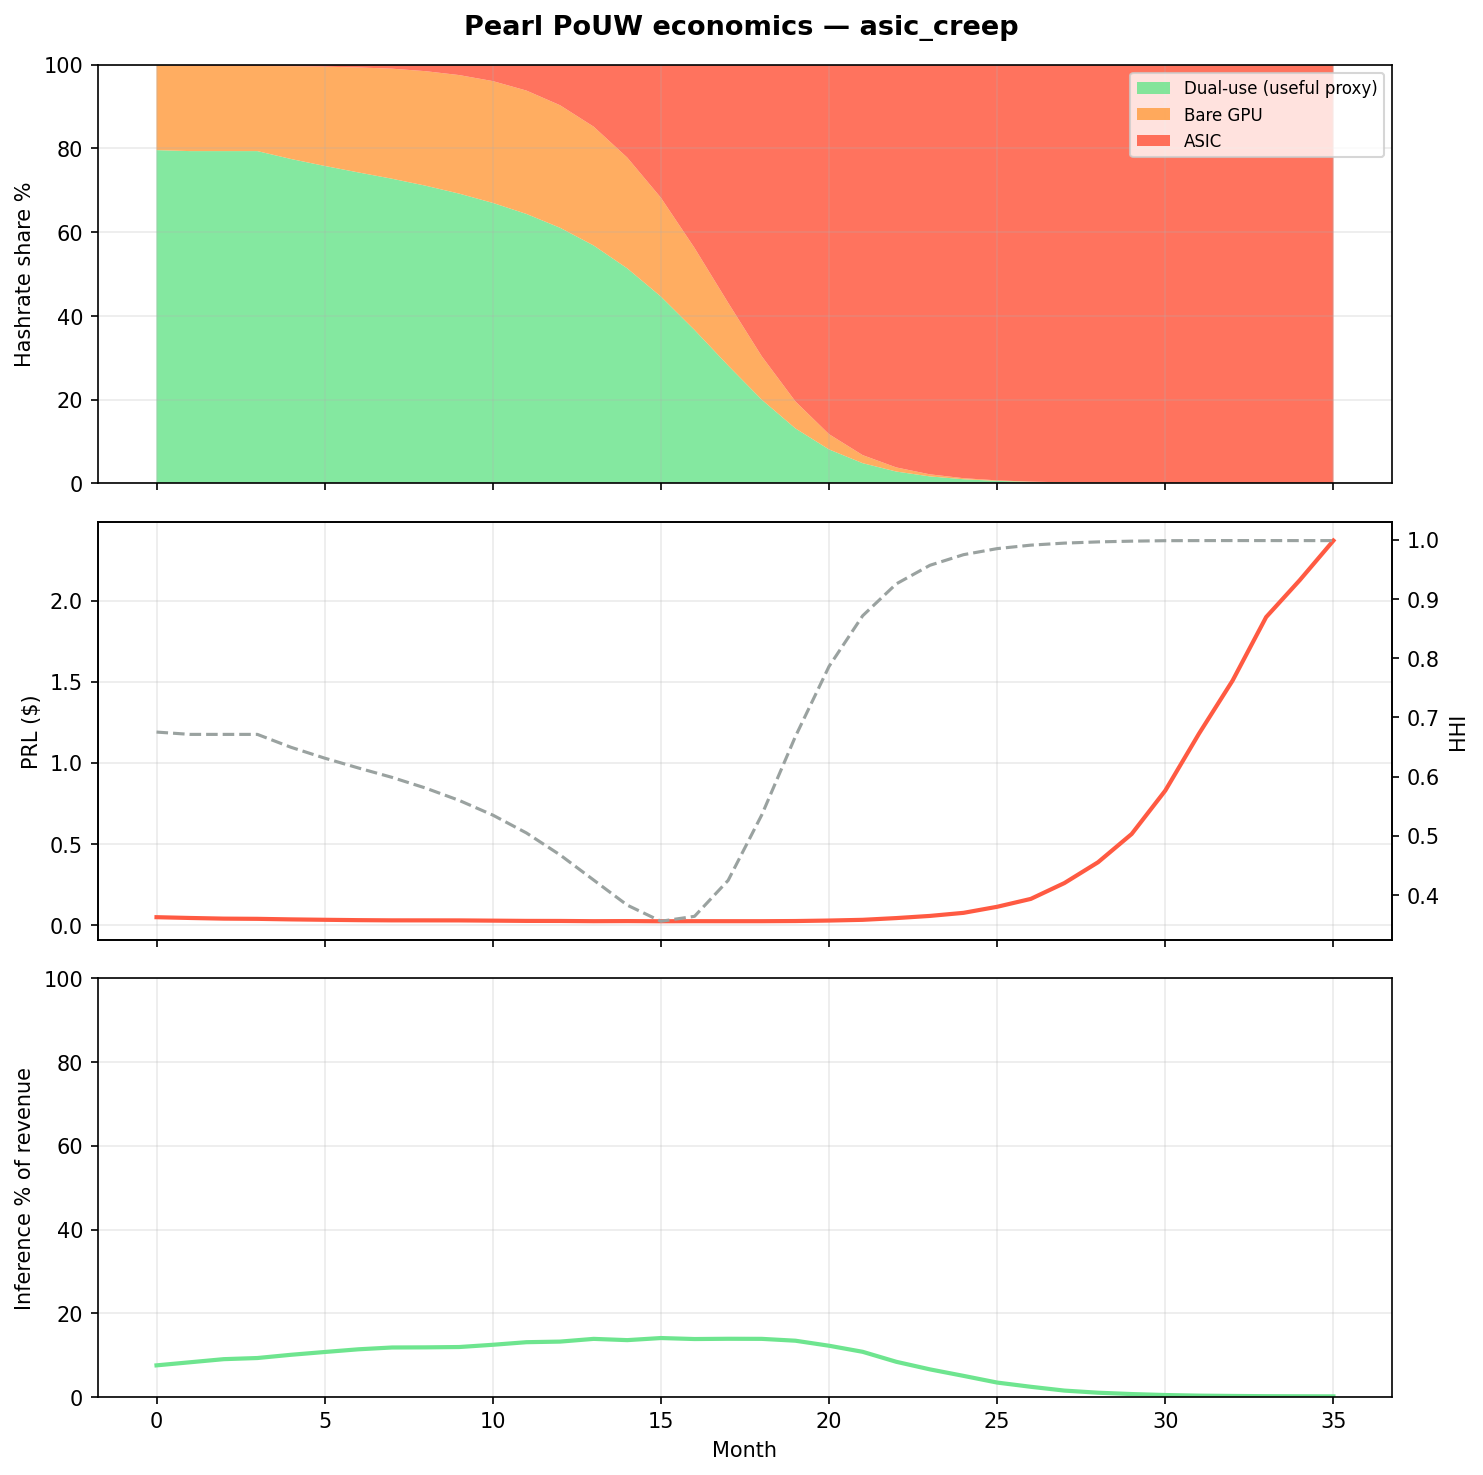
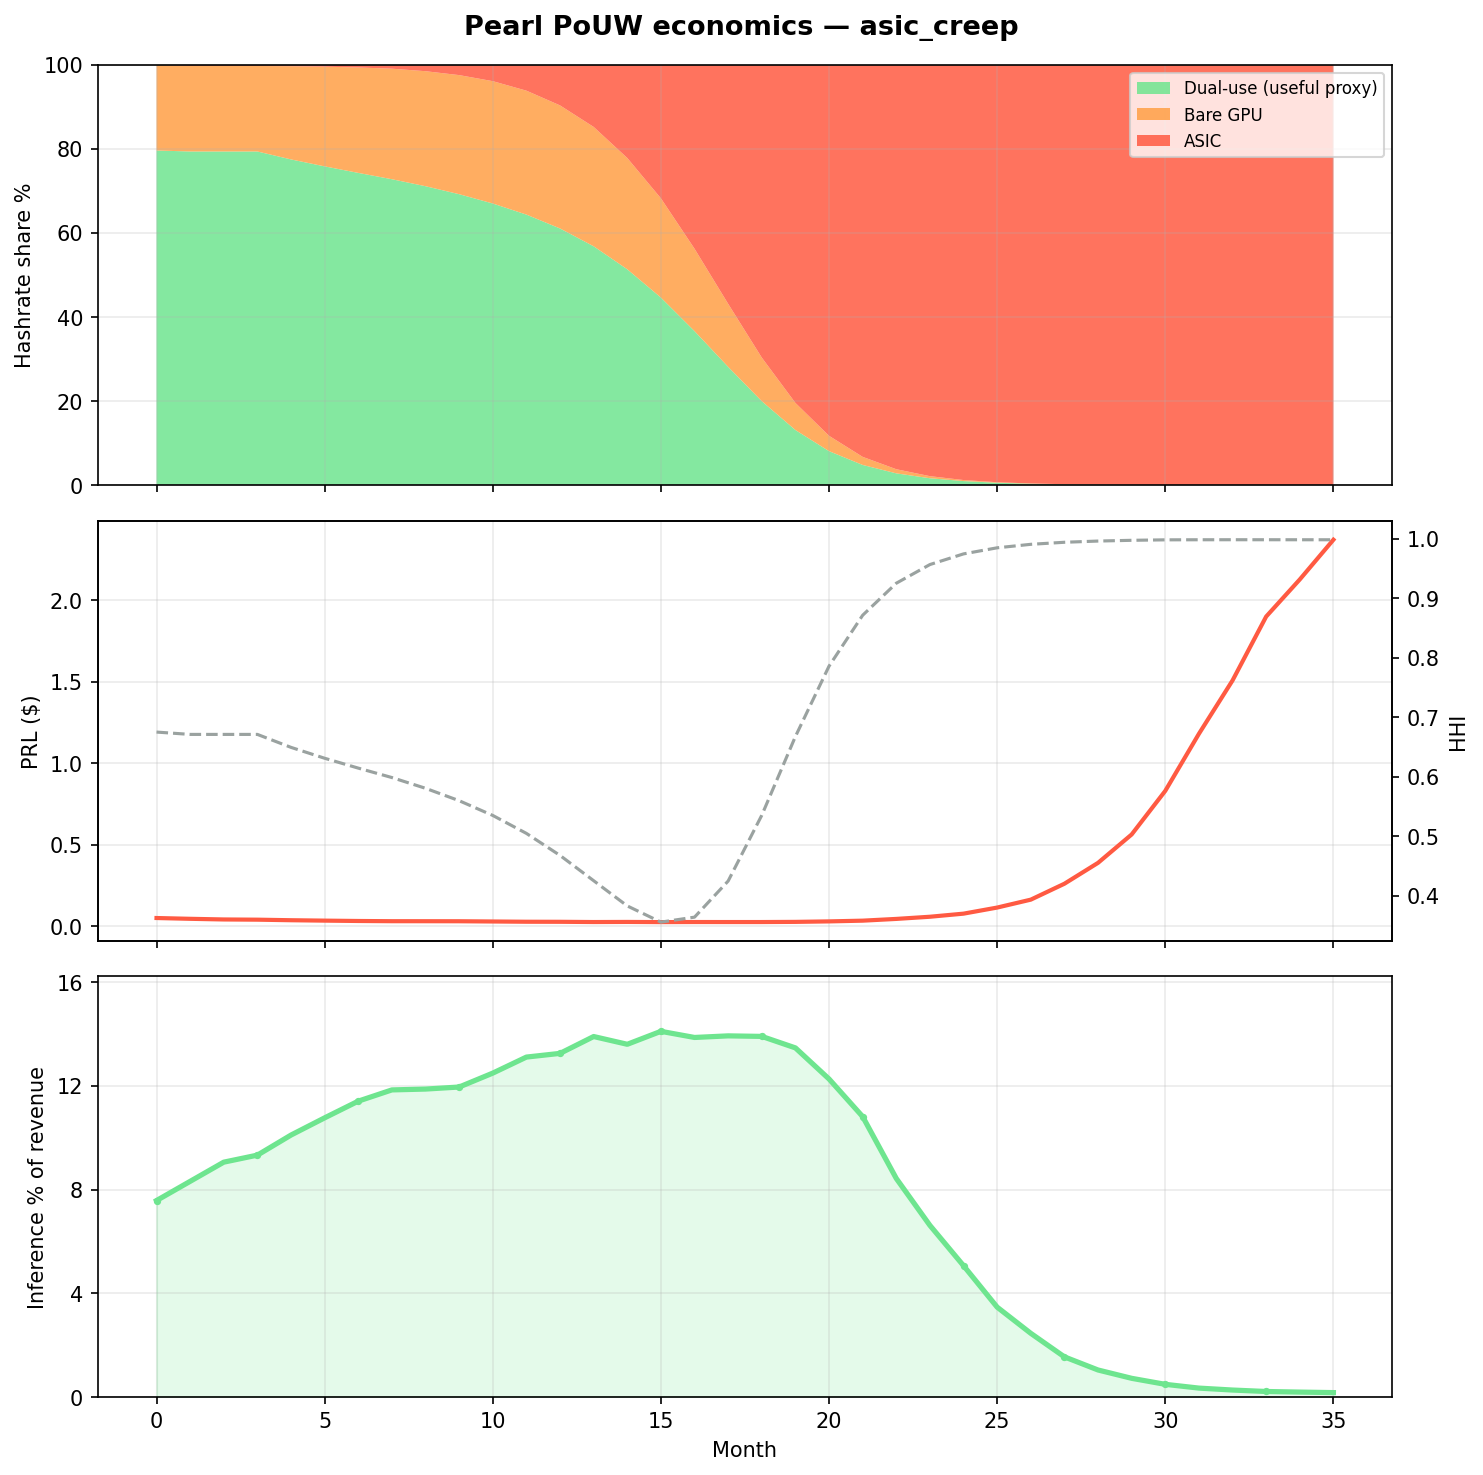
Fix inference revenue chart y-axis scaling in Pearl sim PNGs.
Auto-scale bottom panel to data range, add fill/markers, cache-bust chart URLs on the report.

diff --git a/_posts/2026-05-23-pearl-pouw-useful-work-asic-analysis.md b/_posts/2026-05-23-pearl-pouw-useful-work-asic-analysis.md
@@ -547,32 +547,32 @@ flowchart TB
   <div class="pearl-sim-grid">
     <div class="pearl-sim-card">
       <div class="pearl-sim-card-head"><h4>baseline</h4><span class="tag">moderate PRL</span></div>
-      <div class="pearl-sim-chart"><img src="/assets/images/pearl-economics/baseline.png" alt="Baseline scenario: hashrate shares, PRL price, inference revenue fraction over 36 months" loading="lazy" /></div>
+      <div class="pearl-sim-chart"><img src="/assets/images/pearl-economics/baseline.png?v=20260524d" alt="Baseline scenario: hashrate shares, PRL price, inference revenue fraction over 36 months" loading="lazy" /></div>
       <p class="pearl-sim-caption">Endogenous PRL mean-reversion cannot stop ASIC crowding once hash/$ advantage compounds.</p>
     </div>
     <div class="pearl-sim-card highlight">
       <div class="pearl-sim-card-head"><h4>inference_boom</h4><span class="tag">best case</span></div>
-      <div class="pearl-sim-chart"><img src="/assets/images/pearl-economics/inference_boom.png" alt="Inference boom scenario: dual-use retains meaningful hashrate when API demand scales" loading="lazy" /></div>
+      <div class="pearl-sim-chart"><img src="/assets/images/pearl-economics/inference_boom.png?v=20260524d" alt="Inference boom scenario: dual-use retains meaningful hashrate when API demand scales" loading="lazy" /></div>
       <p class="pearl-sim-caption"><strong>Only scenario</strong> where dual-use hashrate stays double-digit and inference becomes ~half of network revenue.</p>
     </div>
     <div class="pearl-sim-card">
       <div class="pearl-sim-card-head"><h4>prl_pump</h4><span class="tag">subsidy shock</span></div>
-      <div class="pearl-sim-chart"><img src="/assets/images/pearl-economics/prl_pump.png" alt="PRL pump scenario: token price rise attracts ASIC capital" loading="lazy" /></div>
+      <div class="pearl-sim-chart"><img src="/assets/images/pearl-economics/prl_pump.png?v=20260524d" alt="PRL pump scenario: token price rise attracts ASIC capital" loading="lazy" /></div>
       <p class="pearl-sim-caption">Higher PRL alone attracts capital into best hash/$ — ASICs and bare GPUs, not vLLM farms.</p>
     </div>
     <div class="pearl-sim-card">
       <div class="pearl-sim-card-head"><h4>asic_creep</h4><span class="tag">hardware curve</span></div>
-      <div class="pearl-sim-chart"><img src="/assets/images/pearl-economics/asic_creep.png" alt="ASIC creep scenario: improving ASIC efficiency drives concentration" loading="lazy" /></div>
+      <div class="pearl-sim-chart"><img src="/assets/images/pearl-economics/asic_creep.png?v=20260524d" alt="ASIC creep scenario: improving ASIC efficiency drives concentration" loading="lazy" /></div>
       <p class="pearl-sim-caption">4× ASIC efficiency gain → HHI ≈ 1.0. Matches whitepaper's "compute without useful work" branch.</p>
     </div>
     <div class="pearl-sim-card">
       <div class="pearl-sim-card-head"><h4>together_only</h4><span class="tag">May 2026 shaped</span></div>
-      <div class="pearl-sim-chart"><img src="/assets/images/pearl-economics/together_only.png" alt="Together-only scenario: tiny inference market, dual-use collapses" loading="lazy" /></div>
+      <div class="pearl-sim-chart"><img src="/assets/images/pearl-economics/together_only.png?v=20260524d" alt="Together-only scenario: tiny inference market, dual-use collapses" loading="lazy" /></div>
       <p class="pearl-sim-caption">Tiny API demand (~50 GPUs) + low PRL: dual-use starts weak and terminal useful hash → 0.2%.</p>
     </div>
     <div class="pearl-sim-card">
       <div class="pearl-sim-card-head"><h4>bitcoinification</h4><span class="tag">stress test</span></div>
-      <div class="pearl-sim-chart"><img src="/assets/images/pearl-economics/bitcoinification.png" alt="Bitcoinification scenario: combined PRL pump and ASIC creep with flat inference" loading="lazy" /></div>
+      <div class="pearl-sim-chart"><img src="/assets/images/pearl-economics/bitcoinification.png?v=20260524d" alt="Bitcoinification scenario: combined PRL pump and ASIC creep with flat inference" loading="lazy" /></div>
       <p class="pearl-sim-caption">Combined pump + ASIC creep + flat inference — mission collapse. Structurally Bitcoin-shaped.</p>
     </div>
   </div>
